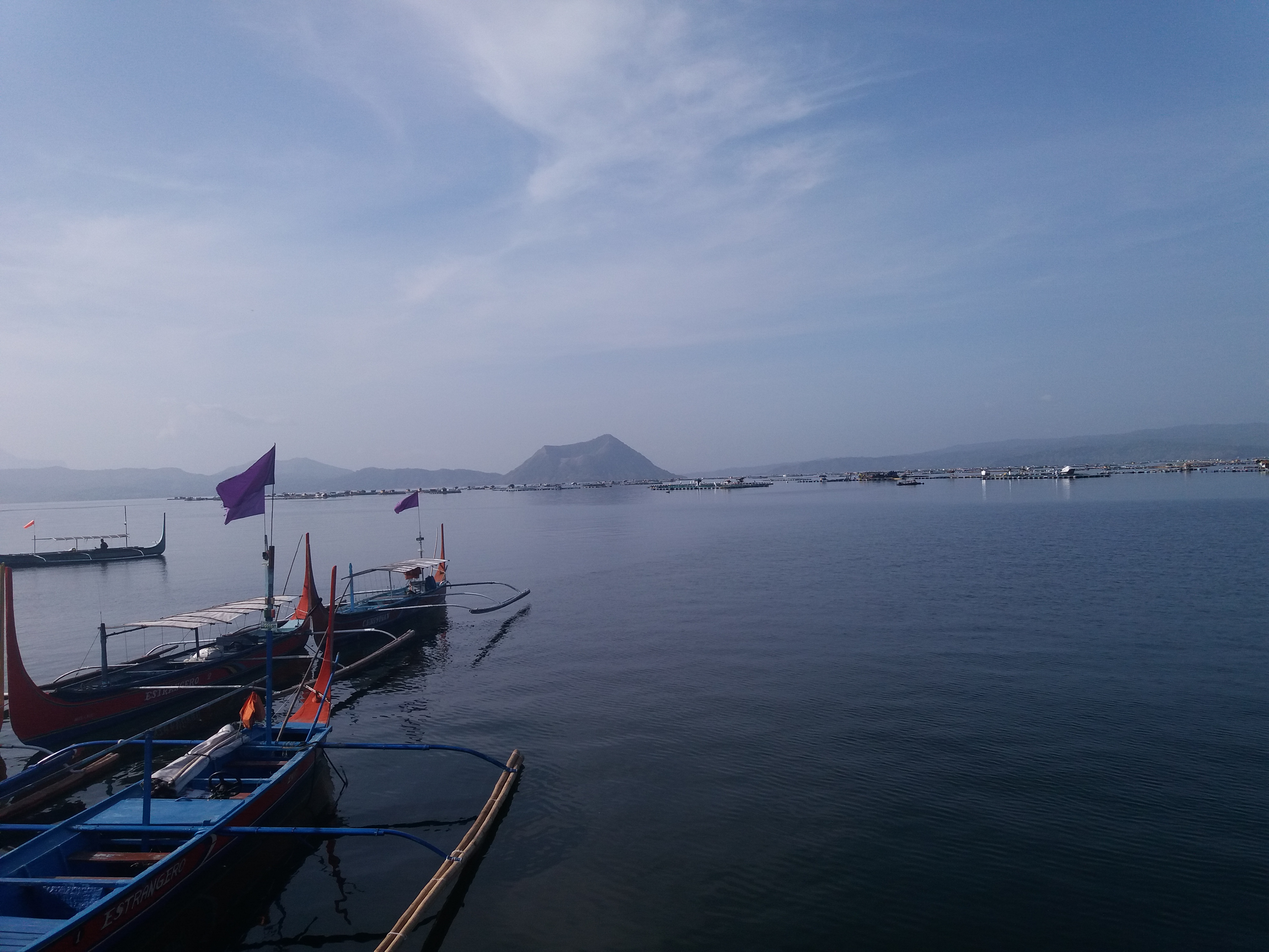
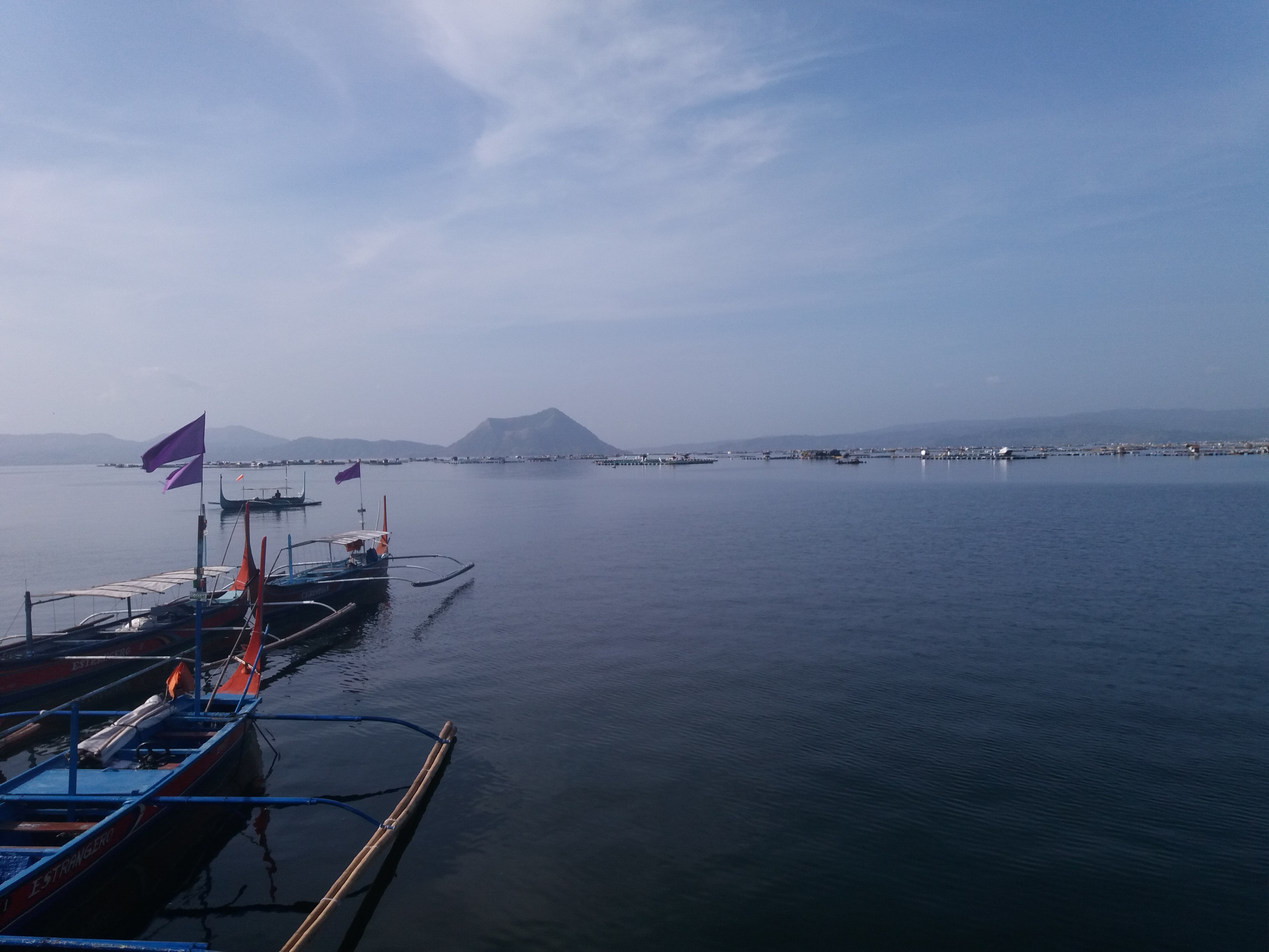
adjusted design

diff --git a/index.html b/index.html
@@ -15,7 +15,7 @@
   <section>
     <div class="head">
     <div class="jumbotron">
-      <h1>mark hermano.</h1>
+      <h1>Mark Hermano</h1>
       <p>"Never give up on your dream just because of the time it will take to accomplish it. The time will pass anyway" <br> - Earl Nightingale </p>
     </div>
     <nav>
@@ -50,6 +50,9 @@
                 <dd>I wanted to shift to a more technical role where I can grow as a human being and enhance my skills. And coding is a job where you can be brain stimulated and it has a great future.</dd>
               <dt>What are your hobbies?</dt>
                 <dd>Watching movies, tv series, youtube videos and playing videogames on my PS4 and PC. </dd>
+              <dt>Do you even lift?</dt>
+                <dd>NO I don't :)</dd>
+              <dt>
             </dl>
           </div>
       </div>
@@ -61,36 +64,36 @@
     <div id="works" class="works">
       <h3>Works</h3>
       <div class="row">
-        <div class="col-lg-4 works">
-                  <a target="_blank" href="https://github.com/hermanomark"><img src="img/css_garden.jpg" class="img-responsive"><h4>CSS Zen Garden</h4></a>
+        <div class="col-lg-4">
+                  <a target="_blank" href="https://github.com/hermanomark"><img src="img/css_garden.jpg"><h4>CSS Zen Garden</h4></a>
 
         </div>
-        <div class="col-lg-4 works">
+        <div class="col-lg-4">
                   <a target="_blank" href="https://github.com/hermanomark"><img src="img/css_garden.jpg" class="img-responsive"><h4>CSS Zen Garden</h4></a>
         </div>
-        <div class="col-lg-4 works">
-                  <a target="_blank" href="https://github.com/hermanomark"><img src="img/css_garden.jpg" class="img-responsive"><h4>CSS Zen Garden</h4></a>
-        </div>
-      </div>
-      <div class="row">
-        <div class="col-lg-4 works">
-                  <a target="_blank" href="https://github.com/hermanomark"><img src="img/css_garden.jpg" class="img-responsive"><h4>CSS Zen Garden</h4></a>
-        </div>
-        <div class="col-lg-4 works">
-                  <a target="_blank" href="https://github.com/hermanomark"><img src="img/css_garden.jpg" class="img-responsive"><h4>CSS Zen Garden</h4></a>
-        </div>
-        <div class="col-lg-4 works">
+        <div class="col-lg-4">
                   <a target="_blank" href="https://github.com/hermanomark"><img src="img/css_garden.jpg" class="img-responsive"><h4>CSS Zen Garden</h4></a>
         </div>
       </div>
       <div class="row">
-        <div class="col-lg-4 works">
+        <div class="col-lg-4">
                   <a target="_blank" href="https://github.com/hermanomark"><img src="img/css_garden.jpg" class="img-responsive"><h4>CSS Zen Garden</h4></a>
         </div>
-        <div class="col-lg-4 works">
+        <div class="col-lg-4">
                   <a target="_blank" href="https://github.com/hermanomark"><img src="img/css_garden.jpg" class="img-responsive"><h4>CSS Zen Garden</h4></a>
         </div>
-        <div class="col-lg-4 works">
+        <div class="col-lg-4">
+                  <a target="_blank" href="https://github.com/hermanomark"><img src="img/css_garden.jpg" class="img-responsive"><h4>CSS Zen Garden</h4></a>
+        </div>
+      </div>
+      <div class="row">
+        <div class="col-lg-4">
+                  <a target="_blank" href="https://github.com/hermanomark"><img src="img/css_garden.jpg" class="img-responsive"><h4>CSS Zen Garden</h4></a>
+        </div>
+        <div class="col-lg-4">
+                  <a target="_blank" href="https://github.com/hermanomark"><img src="img/css_garden.jpg" class="img-responsive"><h4>CSS Zen Garden</h4></a>
+        </div>
+        <div class="col-lg-4">
                   <a target="_blank" href="https://github.com/hermanomark"><img src="img/css_garden.jpg" class="img-responsive"><h4>CSS Zen Garden</h4></a>
         </div>
       </div>
@@ -111,8 +114,6 @@
       </ul>
     </div>
   </section>
-
-  <img src="img/css_garden.JPG" />
 
 <!--   <section class="container">
     <div id="contact" class="contact">

diff --git a/css/style.css b/css/style.css
@@ -8,14 +8,14 @@ html body {
   padding: 0;
   max-height: 100%;
   max-width: 100%;
-  background-color: Azure; 
+  background-color: white; 
   overflow-x: hidden !important;
+  font-family: Lato, Verdana, Helvetica, sans-serif;
 }
 
 .head {
   position: relative;
   width: 100%;
-  font-family: Helvetica, Arial, sans-serif;
   text-align: center;
   padding: 0;
   margin: 0;
@@ -24,7 +24,7 @@ html body {
 .jumbotron {
   position: relative;
   height: 550px;
-  background-image:url("../img/taal_view_2.jpg");
+  background-image:url("../img/taal_view.jpg");
   background-size: cover; 
   background-position: center;
   color: white;
@@ -38,11 +38,10 @@ html body {
 .jumbotron h1 {
   position: relative;
   top: 180px;
-  font-size: 75px;
-  font-weight: 100;
+  font-size: 72px;
+  font-weight: 300;
   color: white;
-  letter-spacing: 0.075em;
-  text-shadow: 4px 3px 4px rgba(0,0,0,0.1);
+  text-shadow: 4px 3px 4px rgba(0,0,0,0.2);
   margin: 0;
   padding: 0;
   width: 100%;
@@ -53,15 +52,17 @@ html body {
   top: 180px;
   font-size: 9px;
   font-style: italic;
-  opacity: 0.50;
+  font-weight: 300;
+  text-shadow: 4px 3px 4px rgba(0,0,0,0.2);
+  /*opacity: 0.50;*/
 }
 
 nav {
   position: relative;
-  padding: 25px 0;
+  padding: 16px 0;
   margin: 0;
   display: inline-block;
-  word-spacing: 2em;
+  word-spacing: 2.3em;
   background-color: #1a1a1a;
   color: white;
   font-size: 18px;
@@ -75,14 +76,13 @@ nav a {
 }
 
 nav a:hover {
-  color: aquamarine;
+  color: gray;
   text-decoration: underline;
 }
 
 h3 {
-  font-family: Helvetica, Arial, sans-serif;
-  font-size: 32px;
-  font-weight: 100;
+  font-size: 34px;
+  font-weight: 300;
   text-align: center;
   padding-bottom: 17px;
 }
@@ -96,14 +96,19 @@ h3 {
 .about {
   position: relative;
   top: 50px;
-  text-align: justify;
   line-height: 20px;
   margin-bottom: 100px;
+  padding: 20px;
+  box-shadow: 0px 4px 6px 2px hsla(0,0%,0%,0.3); 
 }
 
 .col-sm-6 .profile_pic {
  text-align:center;
  padding-bottom: 20px;
+}
+
+.about p, dl {
+  font-size: 15px;
 }
 
 .profile_pic img {
@@ -113,12 +118,13 @@ h3 {
 }
 
 .about a {
-  text-decoration: underline;
   color: #333333;
+  font-weight: bold;
 }
 
 .about a:hover {
   color: gray;
+  text-decoration: underline;
 }
 
 .about dd {
@@ -127,22 +133,27 @@ h3 {
 
 .works {
   position: relative;
-  margin-bottom: 50px;
-  padding-bottom: 0px;
+  margin-bottom: 100px;
+  padding: 20px;
+  box-shadow: 0px 4px 6px 2px hsla(0,0%,0%,0.3);
 }
 
-.works h4 {
-  text-align: center;
+.works img {
+  height: 100%;
+  width: 100%;
 }
 
 .works a {
   text-decoration: none;
   color: #333333;
+  text-align: center;
+  font-family: Lato, Helvetica, sans-serif;
 }
 
 .works a:hover {
   color: gray;
   text-decoration: underline;
+  font-family: Lato, Helvetica, sans-serif;
 }
 
 .works a:hover img{
@@ -151,8 +162,10 @@ h3 {
 
 .skills {
   position: relative;
-  margin-bottom: 50px;
+  margin-bottom: 100px;
   text-align: center;
+  padding: 20px;
+  box-shadow: 0px 4px 6px 2px hsla(0,0%,0%,0.3); 
 }
 
 .skills li {
@@ -166,13 +179,8 @@ h3 {
 
 .contact {
   position: relative;
-  margin-bottom: 50px;
+  margin-bottom: 100px;
+  padding: 20px;
+  box-shadow: 0px 4px 6px 2px hsla(0,0%,0%,0.3); 
 }
 
-
-p {
-
-   }
-
-a {
-   }
